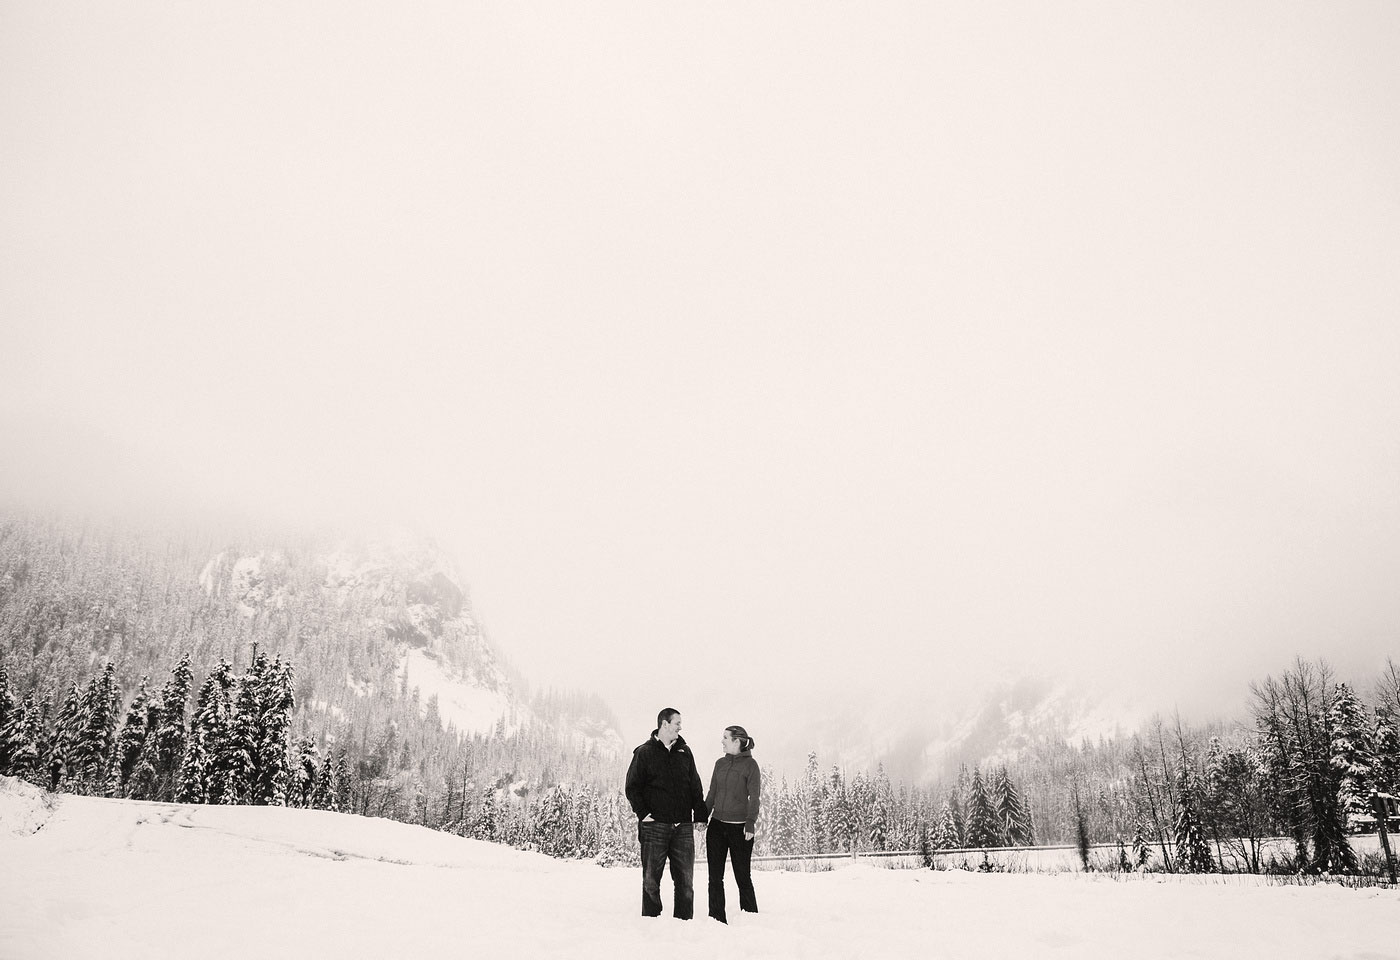
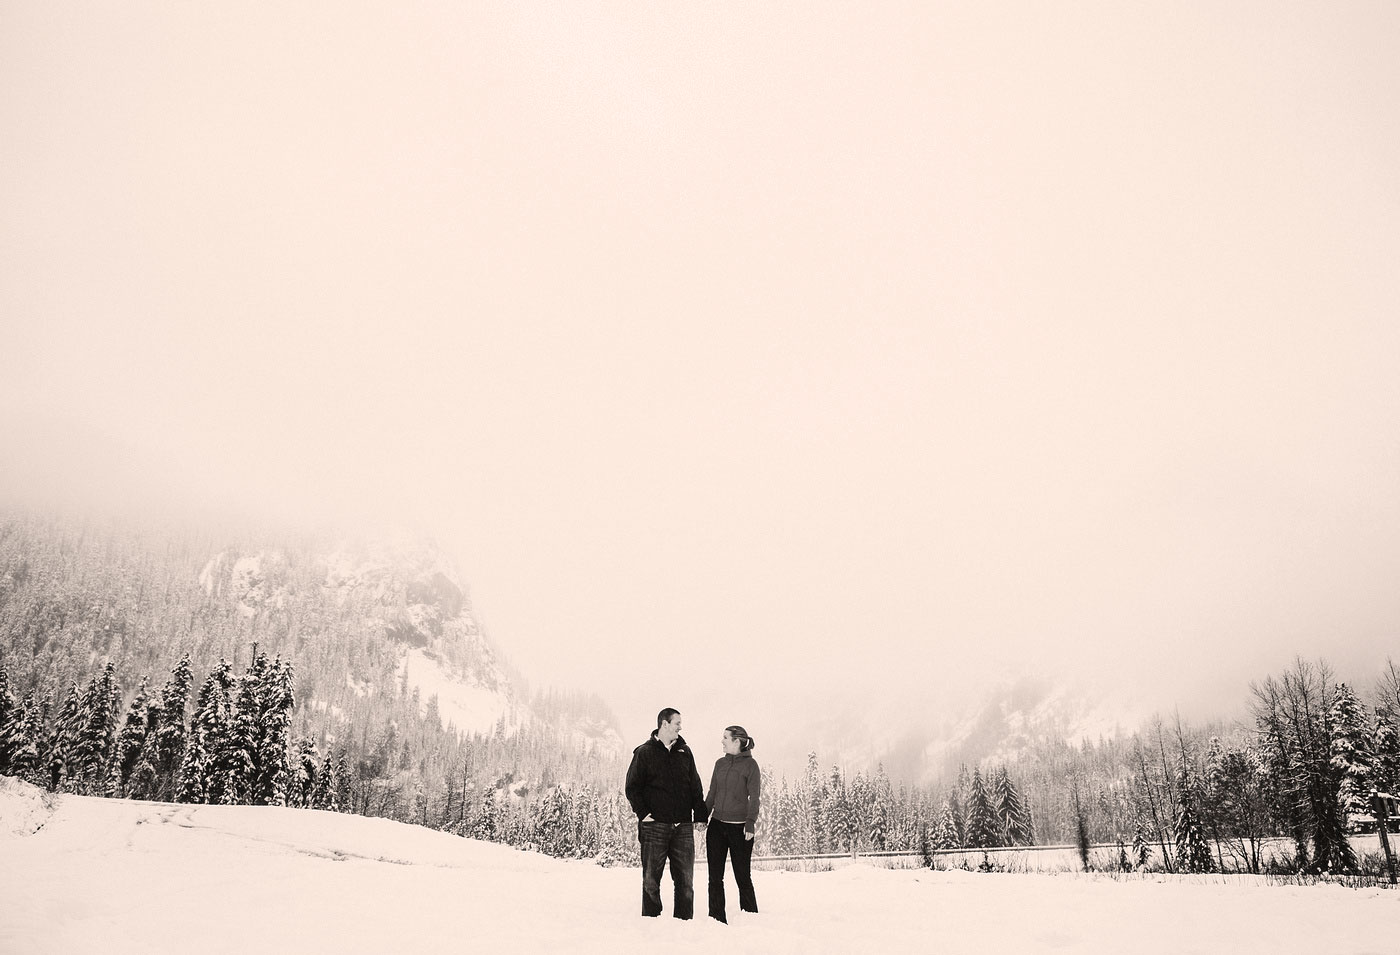
adding assets

Changed region(s): [[0.0, 0.577, 1.0, 0.9717], [0.3379, 0.6984, 0.3686, 0.7288]]

diff --git a/css/style.css b/css/style.css
@@ -8,3 +8,7 @@
 #title {
   
 }
+
+body {
+	background: #fdebe0;
+}
